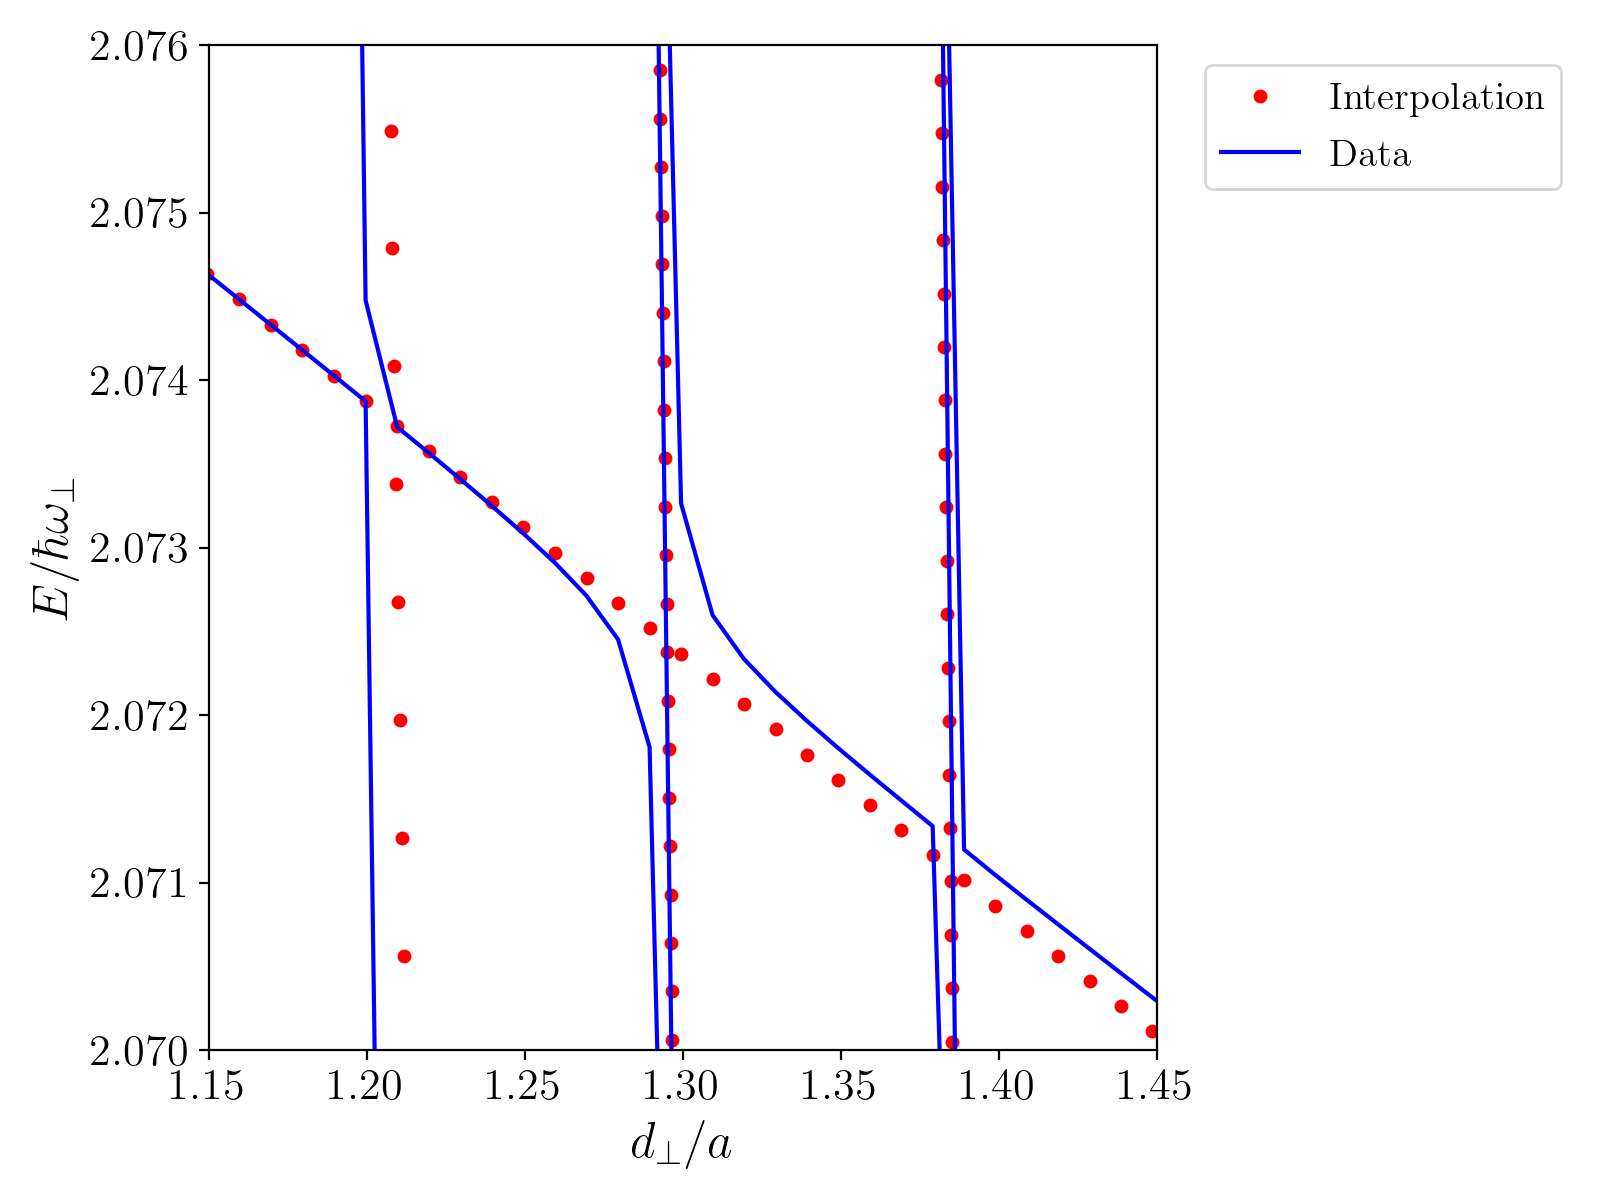
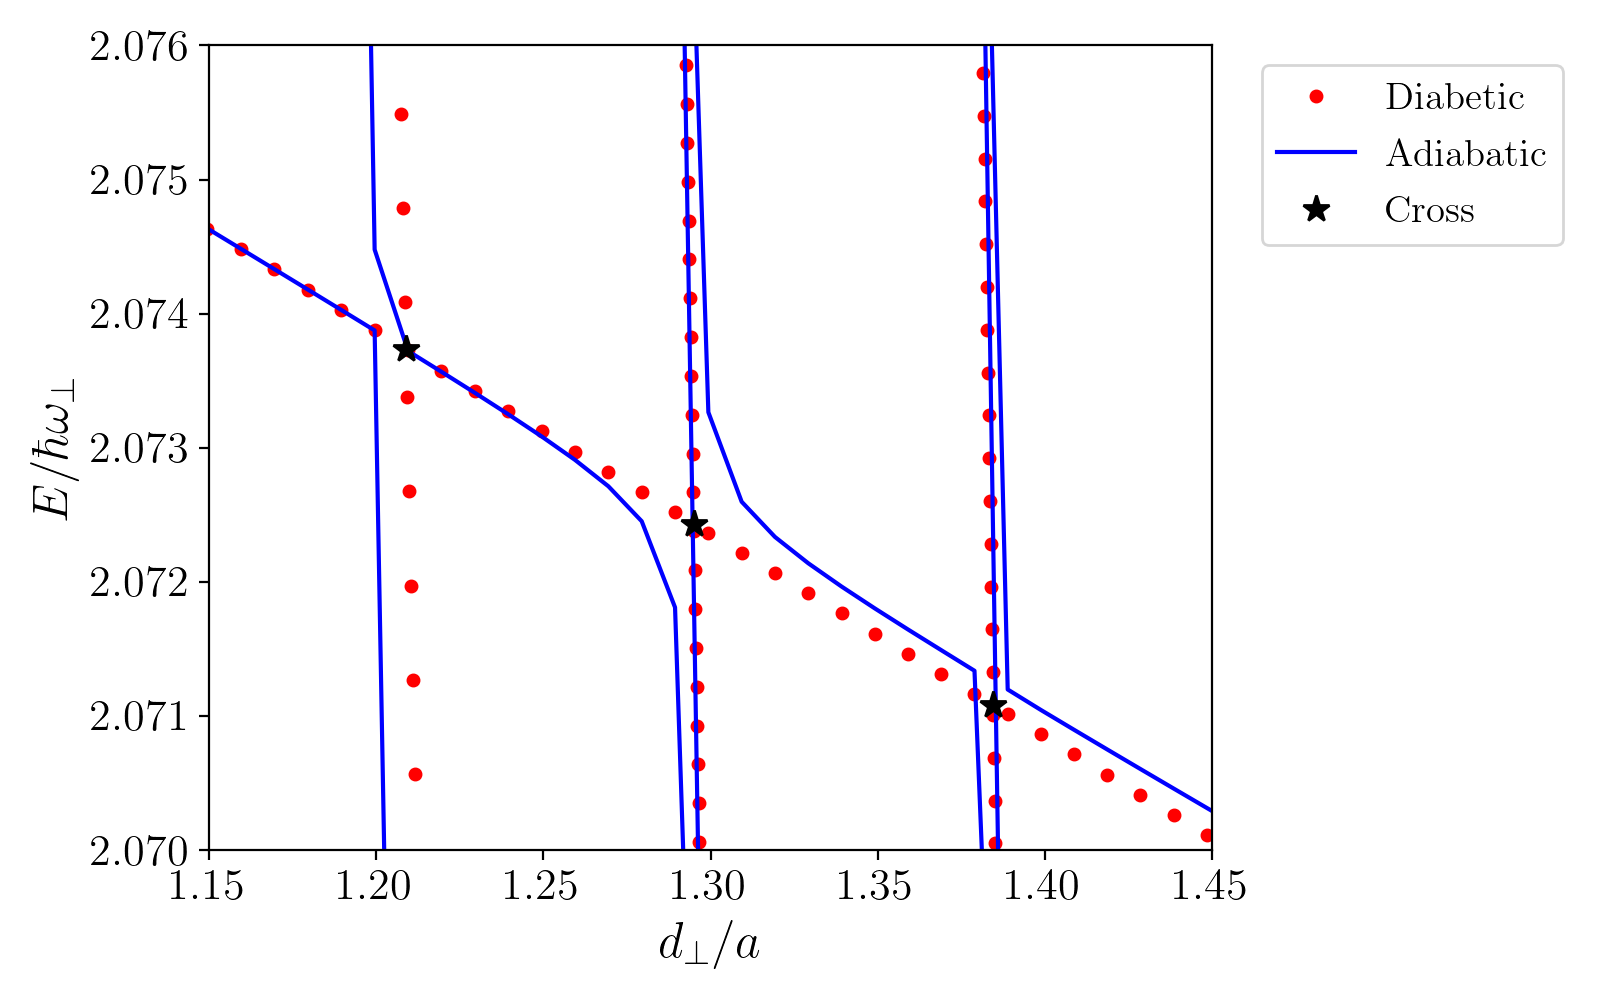
Diabetic levels, crossings and resonances

diff --git a/1D_Energies_Analysis_4993_4993_50.py b/1D_Energies_Analysis_4993_4993_50.py
@@ -1,0 +1,120 @@
+#!/usr/local/opt/python@3.8/bin/python3.8
+__author__ = "@Tssp"
+import numpy as np
+import matplotlib.pyplot as plt
+import os
+from utils.atomic_units import ao, vo, e, hbar, me, Eh, to
+from decimal import Decimal
+from utils.Energies_Analysis_utils import transpose_energies, dic_from_least_bound_forward, cross_points
+plt.rc('text',usetex=True)
+plt.rc('font',family='serif')
+plt.rcParams['xtick.labelsize']=16
+plt.rcParams['ytick.labelsize']=16
+plt.rcParams['axes.labelsize']=18
+plt.rcParams['axes.titlesize']=18
+
+
+# Parameters and Constants:
+###########################
+delta, asc = np.loadtxt('Data/citaold2h/python/delta_asc.txt')
+delta = delta.tolist()
+delta[40] = Decimal('0.7100')
+asc = asc.tolist()
+mass = 7.0160040 * 1.66053873e-27 / me # a.u
+alpha = 200 # a.u
+lambd = 1000 * 1e-9 / ao # a.u
+kx = 2*np.pi/lambd
+Ix = 4993 * (1e4 / Eh * to * ao**2)
+Vx = alpha * Ix # a.u
+Ix = Vx/alpha
+wx = np.sqrt( 2 * Vx * kx**2 / mass)       
+dho = np.sqrt(2 / (mass * wx))
+x = dho / asc
+print(f'''Parameters:
+          wl  [nm]   : {lambd*ao*1e9}
+          mass[a.u]  : {mass}
+          Ix  [W/cm2]: {Ix / ((1e4 / Eh * to * ao**2))}
+          wx  [a.u]  : {wx/to}
+          dho [a.u]  : {dho}''')
+
+# Data mining:
+##############
+print(f'Current directory:\n {os.getcwd()}')
+folder_path = "Data/citaold2h/eva/ix4993_iy4993_iz50/"
+print(f'folder path:\n {folder_path}')
+
+Data = list()
+print(f'Reading files, please wait...')
+for d in delta:
+    try:
+        Data.append(np.loadtxt(folder_path + f'Li7Li7_b_x20000_y20000_z20000_152rm8g2l50m10_102CM8g1L50M10_Li7a200_Li7a200_kx1000_ky1000_kz1000_ix4993_iy4993_iz50_LiLi_a3Sup_{d}_sinTnx6_sinTny6_sinTnz6/Ag_vsLiLi_500-800_75b.eva'))
+    except:
+        Data.append(np.loadtxt(folder_path + f'Li7Li7_b_x20000_y20000_z20000_152rm8g2l50m10_102CM8g1L50M10_Li7a200_Li7a200_kx1000_ky1000_kz1000_ix4993_iy4993_iz50_LiLi_a3Sup_{d}0_sinTnx6_sinTny6_sinTnz6/Ag_vsLiLi_500-800_75b.eva'))
+
+print(f'{len(Data)} files has been readed, each one with {Data[0].shape[0]} energy levels')
+dic = transpose_energies(Data)
+dic, least_bound_pos = dic_from_least_bound_forward(dic, wx)
+
+# Plots/Figures:
+################
+fig, ax = plt.subplots(figsize=(8,6))
+for i in range(least_bound_pos, least_bound_pos + 30):
+    ax.plot(x, dic['nivel_{}'.format(i)]/wx, 'b')
+ax.set_ylim(0, 3)
+ax.set_xlabel('$d_{\perp}/a$')
+ax.set_ylabel('$E/\hbar \omega_{\perp}$')
+plt.tight_layout()
+fig.savefig('General_figures/Ix4993_Iy4993_Iz50/Ix4993_Iy4993_Iz50_Easc.png', dpi=200)
+
+fig3, ax3 = plt.subplots(figsize=(8,5))
+# nivel 1056:
+f1056 = np.polyfit(x[x < 1.2], np.array(dic['nivel_1056'])[x < 1.2]/wx, deg=1)
+ax3.plot(x, np.polyval(f1056, x), 'ro', markersize=4, label='Diabetic')
+ax3.plot(x, dic['nivel_1056']/wx, 'b', label='Adiabatic')
+
+# nivel 1057:
+f1057 = np.polyfit(x[x < 1.2], np.array(dic['nivel_1057'])[x < 1.2]/wx, deg=1)
+x1057 = np.linspace(1, 1.3, num=500)
+ax3.plot(x1057, np.polyval(f1057, x1057), 'ro', markersize=4)
+ax3.plot(x, dic['nivel_1057']/wx, 'b')
+
+# nivel 1058:
+f1058 = np.polyfit(x[(x > 1.2) & (x < 1.3)], np.array(dic['nivel_1058'])[(x > 1.2) & (x < 1.3)]/wx, deg=1)
+x1058 = np.linspace(1.2, 1.3, num=500)
+ax3.plot(x1058, np.polyval(f1058, x1058), 'ro', markersize=4)
+ax3.plot(x, dic['nivel_1058']/wx, 'b')
+
+# nivel 1059:
+# same as 1058
+ax3.plot(x, dic['nivel_1059']/wx, 'b')
+
+# nivel 1060:
+f1060 = np.polyfit(x[(x > 1.3)], np.array(dic['nivel_1060'])[(x > 1.3)]/wx, deg=1)
+x1060 = np.linspace(1.3, 1.4, num=500)
+ax3.plot(x1060, np.polyval(f1060, x1060), 'ro', markersize=4)
+ax3.plot(x, dic['nivel_1060']/wx, 'b')
+
+# nivel 1061:
+# same as 1060:
+ax3.plot(x, dic['nivel_1061']/wx, 'b')
+
+# Crosses:
+##########
+ax3.plot(cross_points(f1056, f1057), np.polyval(f1056, cross_points(f1056, f1057)), 'k*', markersize=10, label='Cross')
+ax3.plot(cross_points(f1056, f1058), np.polyval(f1056, cross_points(f1056, f1058)), 'k*', markersize=10)
+ax3.plot(cross_points(f1056, f1060), np.polyval(f1056, cross_points(f1056, f1060)), 'k*', markersize=10)
+
+
+ax3.set_xlabel('$d_{\perp}/a$')
+ax3.set_ylabel('$E/\hbar \omega_{\perp}$')
+ax3.legend(fontsize=14, bbox_to_anchor=(1.03, 1))
+ax3.set_ylim(2.07, 2.076)
+ax3.set_xlim(1.15, 1.45)
+plt.tight_layout()
+fig3.savefig('General_figures/Ix4993_Iy4993_Iz50/Ix4993_Iy4993_Iz50_Easc_Interpolation.png', dpi=200)
+
+print(f'''Crosses between (x, E):
+* 1056-1057: ({cross_points(f1056, f1057)}, {np.polyval(f1056, cross_points(f1056, f1057))})
+* 1056-1058: ({cross_points(f1056, f1058)}, {np.polyval(f1056, cross_points(f1056, f1058))})
+* 1056-1060: ({cross_points(f1056, f1060)}, {np.polyval(f1056, cross_points(f1056, f1060))})''')
+plt.show()

diff --git a/utils/Energies_Analysis_utils.py b/utils/Energies_Analysis_utils.py
@@ -1,6 +1,7 @@
 __author__ = "@Tssp"
 import numpy as np
 import os
+import sympy as sp
 
 def transpose_energies(Data):
     '''Inputs the Data list and outputs a dictionary with the evolution of the energy levels
@@ -26,7 +27,10 @@ def transpose_energies(Data):
         dic['nivel_{}'.format(j)] = out
     return dic
 
-def dic_from_least_bound_forward(dic):
+
+
+
+def dic_from_least_bound_forward(dic, wx):
     '''Inputs the dictionary of the transposed data, detects the least bound state (LBS) and the first trap state and filters
        the dictionary from the LBS forwards.
        
@@ -42,7 +46,7 @@ def dic_from_least_bound_forward(dic):
        i-1: Least bound state position.
        
     '''
-    
+    L = len(dic.keys())
     for i in range(L):
         if dic['nivel_{}'.format(i)][0] > 0:
             print("Least bound state: ", i-1, dic['nivel_{}'.format(i-1)][0]/wx)
@@ -51,3 +55,24 @@ def dic_from_least_bound_forward(dic):
     for j in range(1, i):
         del dic['nivel_{}'.format(j-1)]
     return dic, i-1
+
+
+
+
+def cross_points(f, g):
+    ''' This function takes the numpy 1-degree linear polyfit variables that contains the slope in the
+        [0] position and the intercept in [1] of two different functions f and g and returns the cross
+        point between them.
+        
+        
+        Parameters
+        ----------
+        f: 1-degree linear polyfit variable.
+        g: 1-degree linear polyfit variable.
+        
+        Returns
+        -------
+        Cross point between f and g.
+    '''
+    x = sp.symbols('x')
+    return float(sp.solve(f[0]*x + f[1] - (g[0]*x + g[1]))[0])
